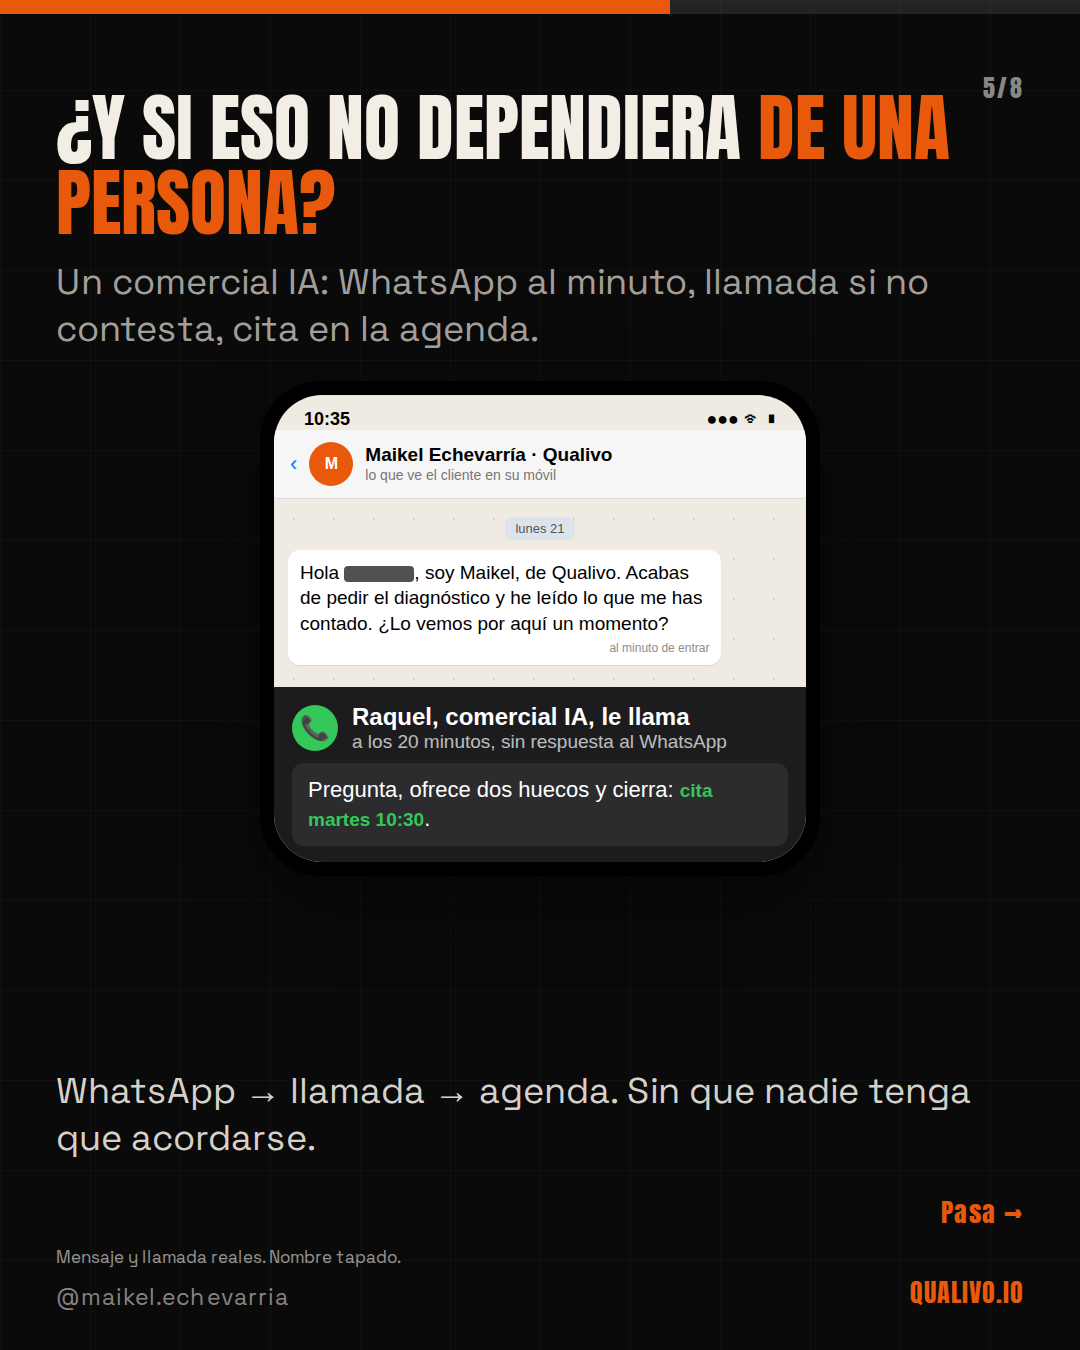
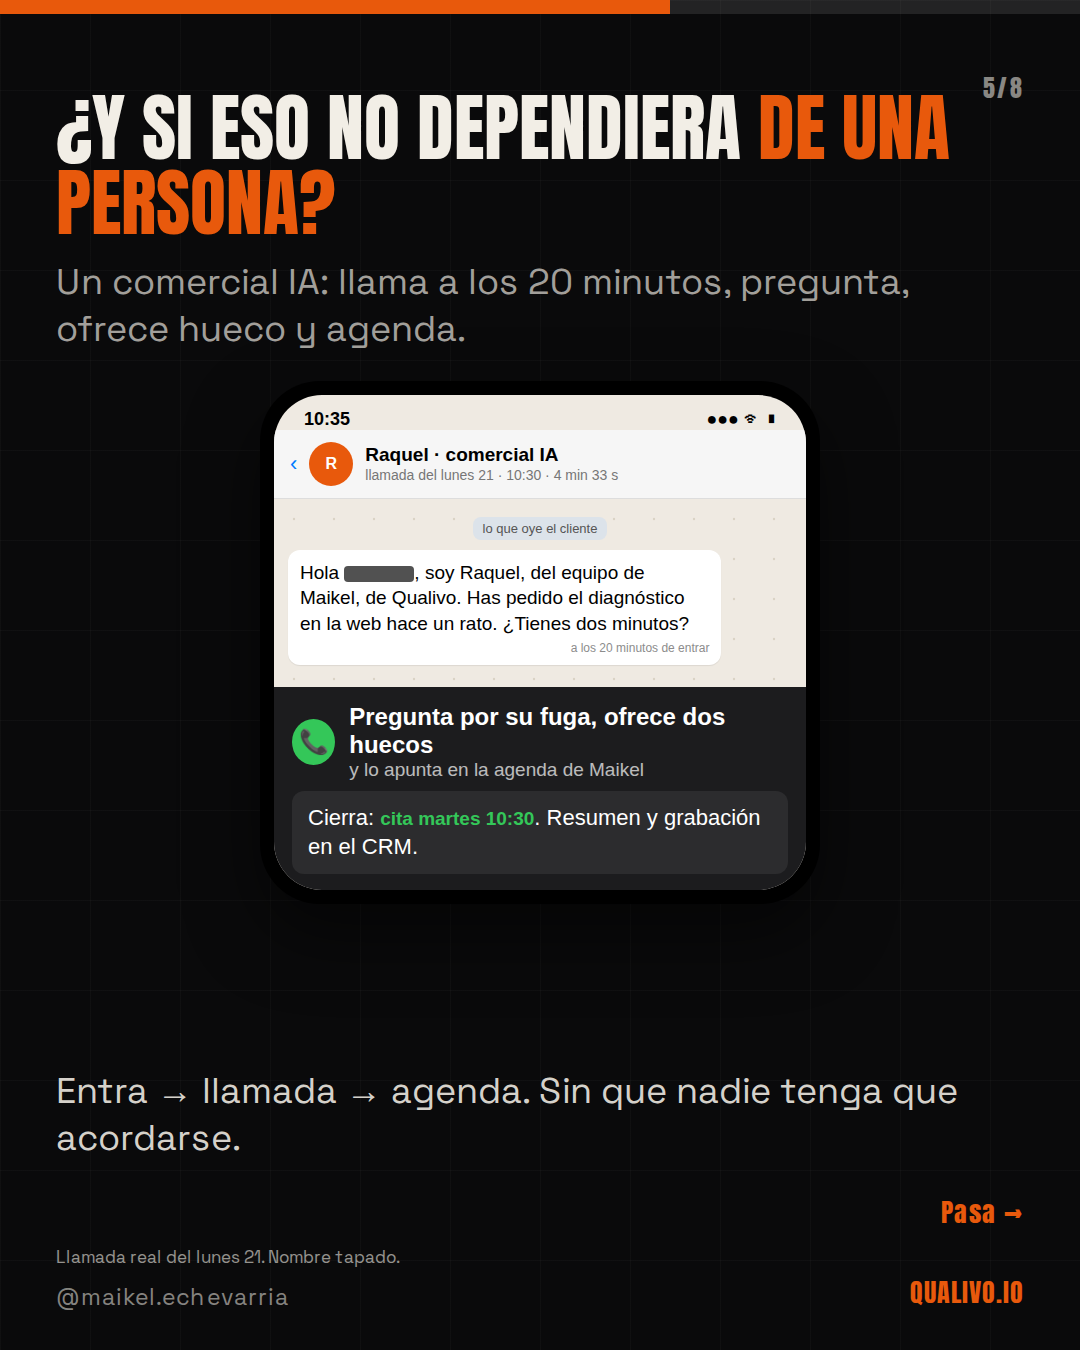
Carrusel «Casi 7×» v4: lámina 5 solo con la llamada de Raquel; pasa al martes 22, Sin humo al miércoles
Claude-Session: https://claude.ai/code/session_015zPzMSu62cfqSPYhENKK62

diff --git a/content/carruseles/2026-09-22-contacto-7x/lamina-5.html b/content/carruseles/2026-09-22-contacto-7x/lamina-5.html
@@ -58,13 +58,13 @@ body{padding:0;background:#000}
 .big{font-family:Anton;font-size:250px;line-height:.9;color:#E8590C;letter-spacing:-.02em}
 </style></head><body><div class="page tinta"><div class="prog"><i style="width:62%"></i></div><div class="n">5/8</div><div class="in">
   <div class="h">¿Y si eso no dependiera <span class="nar">de una persona?</span></div>
-  <div class="t" style="opacity:.75">Un comercial IA: WhatsApp al minuto, llamada si no contesta, cita en la agenda.</div>
+  <div class="t" style="opacity:.75">Un comercial IA: llama a los 20 minutos, pregunta, ofrece hueco y agenda.</div>
   <div class="vis" style="margin-top:28px"><div class="phone"><div class="scr"><div class="sb"><span>10:35</span><span>●●● ᯤ ▮</span></div>
-<div class="wah"><span class="back">‹</span><div class="av">M</div><div><b>Maikel Echevarría · Qualivo</b><small>lo que ve el cliente en su móvil</small></div></div>
-<div class="wall" style="min-height:0"><div class="day">lunes 21</div><div class="bub suyo">Hola <span class="tapa"></span>, soy Maikel, de Qualivo. Acabas de pedir el diagnóstico y he leído lo que me has contado. ¿Lo vemos por aquí un momento?<span class="hh">al minuto de entrar</span></div></div>
+<div class="wah"><span class="back">‹</span><div class="av" style="background:#E8590C">R</div><div><b>Raquel · comercial IA</b><small>llamada del lunes 21 · 10:30 · 4 min 33 s</small></div></div>
+<div class="wall" style="min-height:0"><div class="day">lo que oye el cliente</div><div class="bub suyo">Hola <span class="tapa"></span>, soy Raquel, del equipo de Maikel, de Qualivo. Has pedido el diagnóstico en la web hace un rato. ¿Tienes dos minutos?<span class="hh">a los 20 minutos de entrar</span></div></div>
 <div class="callbar" style="flex-direction:column;align-items:stretch;gap:10px">
-<div style="display:flex;align-items:center;gap:14px"><div class="ic">📞</div><div><b style="font-size:24px">Raquel, comercial IA, le llama</b><small style="font-size:19px">a los 20 minutos, sin respuesta al WhatsApp</small></div></div>
-<div style="background:#2C2C2E;border-radius:12px;padding:12px 16px;font-size:22px;line-height:1.35">Pregunta, ofrece dos huecos y cierra: <b style="display:inline;color:#34C759">cita martes 10:30</b>.</div>
+<div style="display:flex;align-items:center;gap:14px"><div class="ic">📞</div><div><b style="font-size:24px">Pregunta por su fuga, ofrece dos huecos</b><small style="font-size:19px">y lo apunta en la agenda de Maikel</small></div></div>
+<div style="background:#2C2C2E;border-radius:12px;padding:12px 16px;font-size:22px;line-height:1.35">Cierra: <b style="display:inline;color:#34C759">cita martes 10:30</b>. Resumen y grabación en el CRM.</div>
 </div></div></div></div>
-  <div class="t" style="margin-top:0;margin-bottom:70px;font-size:36px">WhatsApp → llamada → agenda. Sin que nadie tenga que acordarse.</div>
-  <div class="src">Mensaje y llamada reales. Nombre tapado.</div></div><div class="next">Pasa →</div><div class="firma">@maikel.echevarria</div><div class="web">QUALIVO.IO</div></div></body></html>
+  <div class="t" style="margin-top:0;margin-bottom:70px;font-size:36px">Entra → llamada → agenda. Sin que nadie tenga que acordarse.</div>
+  <div class="src">Llamada real del lunes 21. Nombre tapado.</div></div><div class="next">Pasa →</div><div class="firma">@maikel.echevarria</div><div class="web">QUALIVO.IO</div></div></body></html>

diff --git a/content/borradores/semana-39-formatos-intercalados.md b/content/borradores/semana-39-formatos-intercalados.md
@@ -14,8 +14,8 @@
 
 | Día | Formato | Pieza | Dato que lleva | CTA | Estado |
 |---|---|---|---|---|---|
-| Mar 22 | **Post de una imagen** (IG + LinkedIn) | Sin humo · «Lo barato es llamar. Lo caro es saber cuándo colgar» | 24 llamadas, 3 citas, 3 × 118 s con locución (bitácora 21-sep) | Conversación | Imagen lista, sin rótulo de serie desde hoy |
-| Mié 23 | **Carrusel** (IG + documento LinkedIn) | «Casi 7×» · contestar en la primera hora | HBR 2011, 2.241 empresas; caso propio del lunes | Guardar + pregunta (conversación) | v3 revisada por el Master Reviewer; falta la decisión de la lámina 5 |
+| Mar 22 | **Carrusel** (IG + documento LinkedIn) | «Casi 7×» · contestar en la primera hora | HBR 2011, 2.241 empresas; caso propio del lunes | Guardar + pregunta (conversación) | v4: Maikel prefirió el carrusel para hoy (22-sep, mediodía). Lámina 5 solo con la llamada de Raquel |
+| Mié 23 | **Post de una imagen** (IG + LinkedIn) | Sin humo · «Lo barato es llamar. Lo caro es saber cuándo colgar» | 24 llamadas, 3 citas, 3 × 118 s con locución (bitácora 21-sep) | Conversación | Imagen lista. A Maikel no le convence: se rehace o se cambia por otra antes del miércoles |
 | Mié 23 | **Newsletter** · capítulo 1 | «24 llamadas, 3 citas y dos minutos con una operadora» | Bitácora 21-sep, Notion Llamadas | Diagnóstico | `content/newsletter/2026-09-23.md`, revisada (nota 7, cambios aplicados) |
 | Jue 24 | **Vídeo a cámara** (reel + LinkedIn) | «Le pedí a un agente que repasara mi CRM. Encontró 34.500 € parados» | CRM propio, 10-sep: 25 de 30, 34.500 €, 15 entre 57 y 63 días | Recurso: «escribe FUGA» | Guion abajo, revisado (nota 7, cambios aplicados) |
 | Jue 24 | Blog (ya publicado hoy) | Presupuestos sin respuesta | Los mismos del vídeo | Diagnóstico | `/blog/presupuestos-sin-respuesta/`, publicado 22-sep |
@@ -27,7 +27,7 @@ Reparto de CTA: cuatro de conversación, uno de recurso, dos de diagnóstico
 20 y el recurso va corto porque solo hay un vídeo largo esta semana. La semana
 que viene el recurso entra en el carrusel.
 
-Orden de los formatos: imagen, carrusel, vídeo, texto, vídeo. Ningún formato
+Orden de los formatos: carrusel, imagen, vídeo, texto, vídeo. Ningún formato
 dos días seguidos. Los dos vídeos son a cámara, sin producción: móvil, luz de
 ventana, un plano, rótulos encima.
 

diff --git a/content/carruseles/2026-09-22-contacto-7x/caption.md b/content/carruseles/2026-09-22-contacto-7x/caption.md
@@ -6,7 +6,7 @@ Contestar en la primera hora multiplica casi por 7 la probabilidad de cualificar
 
 Harvard Business Review mandó un contacto de prueba a 2.241 empresas y cronometró. Solo el 37 % contestó en la primera hora. El 23 % no contestó nunca. Las que respondían en la primera hora tenían casi siete veces más probabilidad de cualificar al contacto.
 
-Un buen comercial responde mientras la intención está caliente. ¿Y si eso no dependiera de una persona? Un comercial IA: WhatsApp al minuto, llamada si no contesta, cita en la agenda. El lunes, 12 contactos y 3 citas mientras yo estaba en otra reunión.
+Un buen comercial responde mientras la intención está caliente. ¿Y si eso no dependiera de una persona? Un comercial IA: llama a los 20 minutos, pregunta, ofrece hueco y agenda. El lunes, 12 contactos y 3 citas mientras yo estaba en otra reunión.
 
 Antes de gastar más en conseguir contactos, mira cuánto tardas en atender los que ya tienes. Guarda esto y mide el tiempo real de respuesta de tu último contacto. ¿Cuánto tardaste? Dímelo abajo.
 
@@ -18,6 +18,6 @@ Contestar en la primera hora multiplica casi por 7 la probabilidad de cualificar
 
 Harvard Business Review mandó un contacto de prueba a 2.241 empresas y cronometró. El 37 % contestó en la primera hora. El 23 % no contestó nunca. Las que respondían en la primera hora tenían casi siete veces más probabilidad de cualificar al contacto.
 
-Un buen comercial responde mientras la intención está caliente. ¿Y si eso no dependiera de una persona? Un comercial IA hace lo mismo cada vez: WhatsApp al minuto, llamada si no contesta, cita en la agenda. El lunes: 12 contactos, 24 llamadas, 3 citas, y yo en otra reunión.
+Un buen comercial responde mientras la intención está caliente. ¿Y si eso no dependiera de una persona? Un comercial IA hace lo mismo: llama a los 20 minutos, pregunta, ofrece hueco y agenda. El lunes: 12 contactos, 24 llamadas, 3 citas, y yo en otra reunión.
 
 Antes de gastar más en conseguir contactos, mira cuánto tardas en atender los que ya tienes. Ahí puede estar una de tus mayores fugas. ¿Cuánto tardaste con el último? Dímelo abajo.

diff --git a/content/diario-contenido.md b/content/diario-contenido.md
@@ -334,3 +334,11 @@ su fichero en `api/`, no el resumen.
 Filas nuevas en la base de Notion «Revisión de piezas · contenido»: el
 artículo (Publicada, v2), la newsletter (En revisión, v2) y el vídeo (En
 revisión, v2), con nota, veredicto y qué cambió.
+
+### Martes 22 · mediodía · Maikel elige el carrusel para hoy
+
+«No me convence este [Sin humo]. Me gustaba más el carrusel de ayer.» El
+carrusel «Casi 7×» pasa al martes; Sin humo pasa al miércoles y se rehace o se
+cambia. Lámina 5 cerrada con mi recomendación: fuera el WhatsApp firmado «soy
+Maikel», queda solo la llamada de Raquel. v4 renderizada y entregada en el chat
+con los dos pies de foto. Publicar sigue dependiendo de que levante la pausa.

diff --git a/content/carruseles/2026-09-22-contacto-7x/README.md b/content/carruseles/2026-09-22-contacto-7x/README.md
@@ -8,3 +8,12 @@ estudio. Datos: HBR 2011 (2.241 empresas) y la bitácora del 21-sep. Mensaje y
 llamada reales, nombre tapado. **NO PUBLICAR**: pausa vigente.
 
 Regenerar: `./render.sh`.
+
+
+## v4 (22-sep, mediodía)
+
+Maikel prefirió este carrusel para el martes 22. Lámina 5 rehecha con la
+recomendación pendiente: fuera el WhatsApp firmado «soy Maikel» (regla del
+21-sep: nada que parezca envío automatizado desde el 663); queda solo la
+llamada de Raquel (lunes 21, 10:30, 4 min 33 s, cita martes 10:30). Pie de
+foto ajustado. Sigue sin publicar hasta que Maikel levante la pausa.
